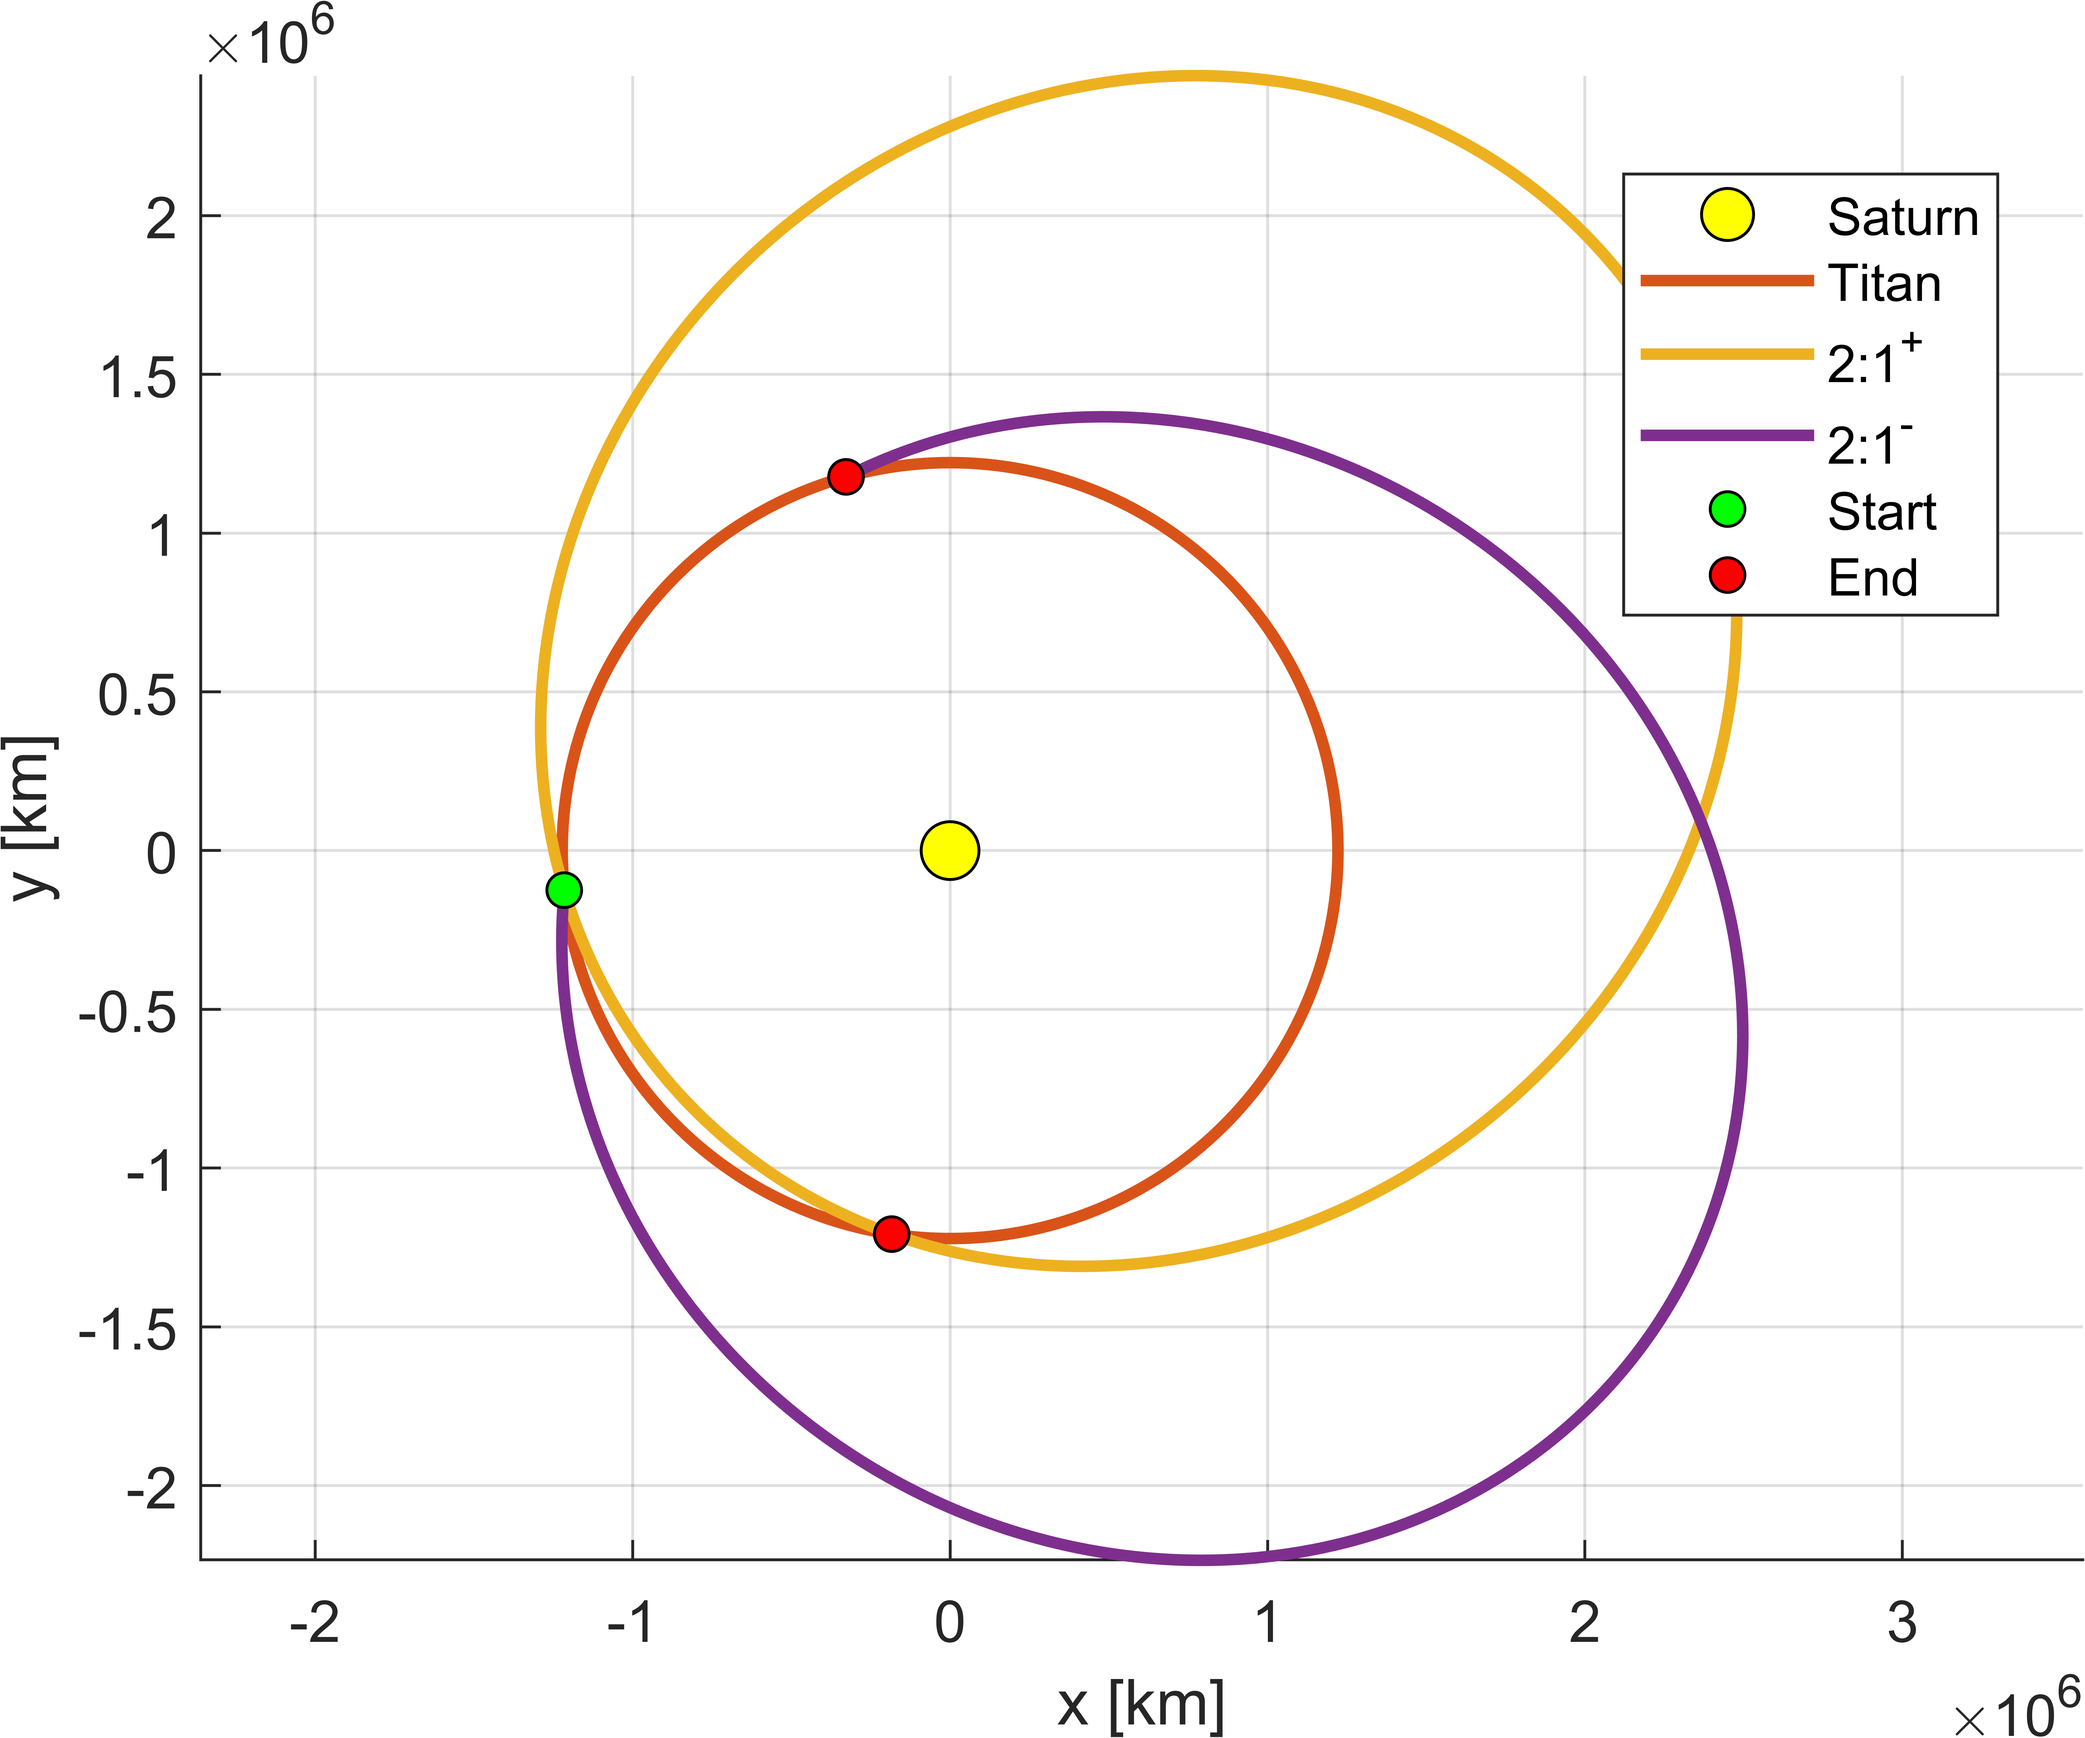
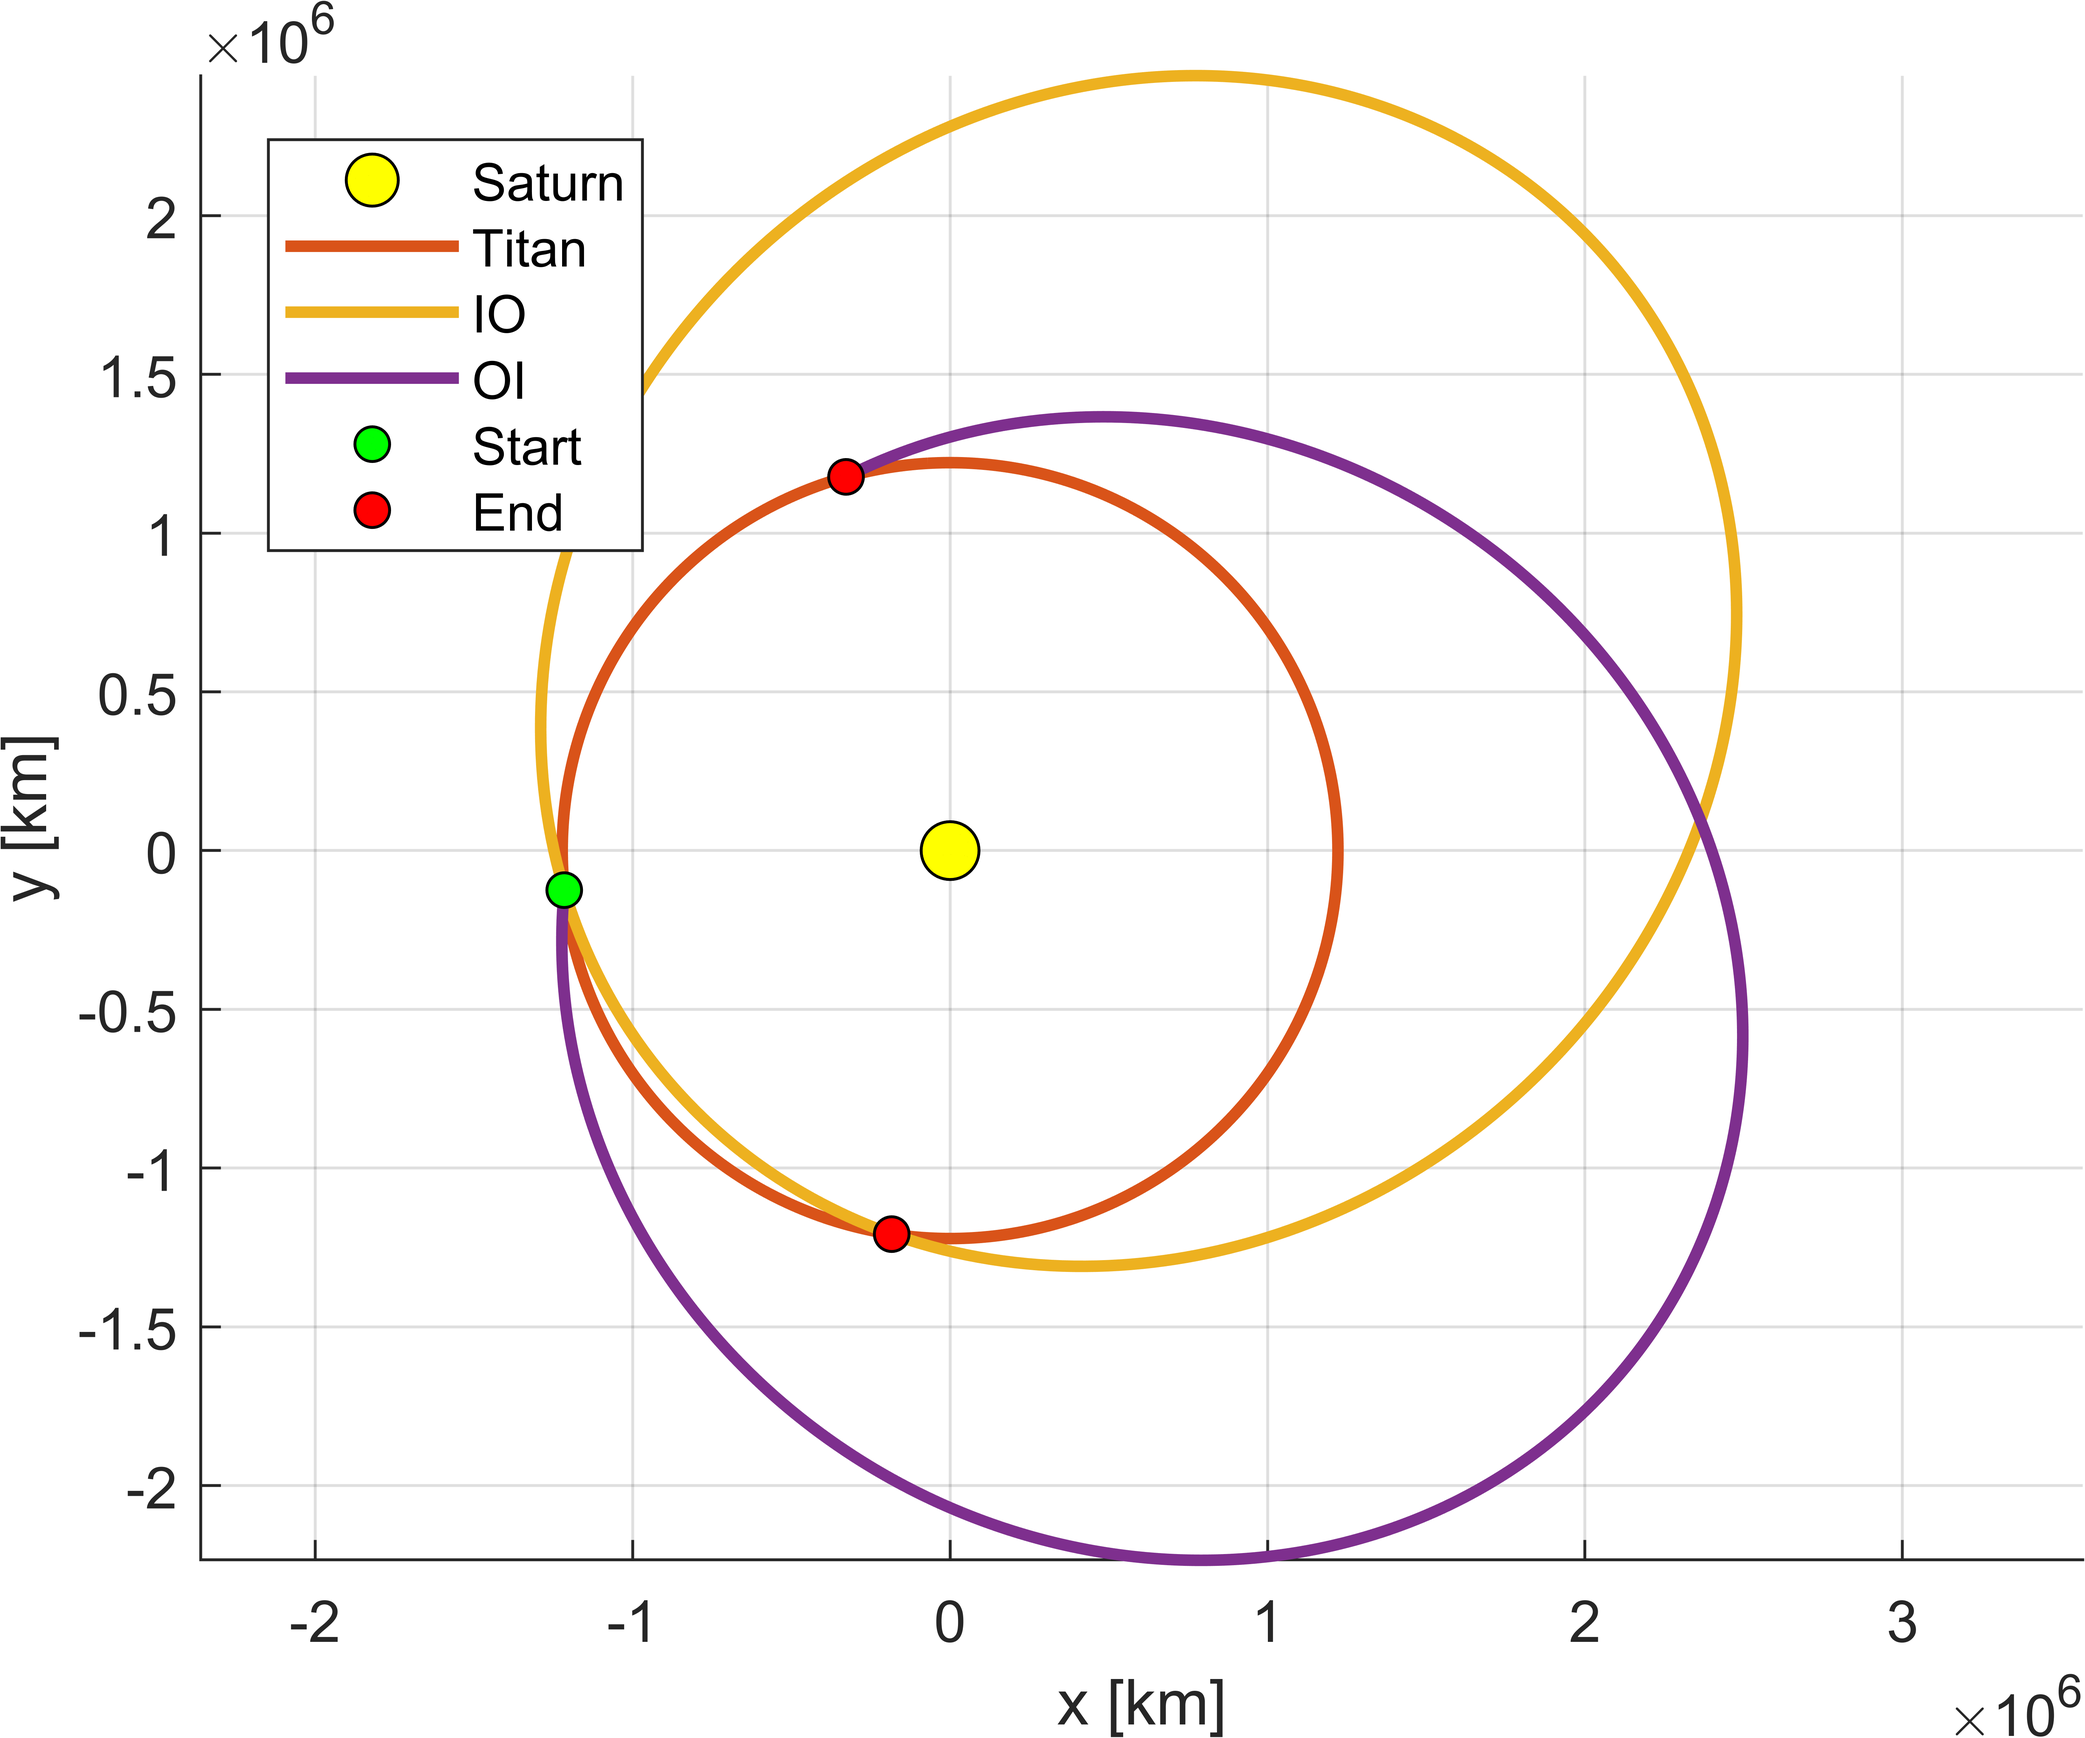
upd transfers

Changed region(s): [[0.1245, 0.0623, 0.3112, 0.3115], [0.778, 0.0935, 0.9647, 0.3738]]

diff --git a/st0_1_different_transfer.m b/st0_1_different_transfer.m
@@ -13,20 +13,27 @@ vinf_norm = 1.5;                          % --> infinity velocity [km/s]
 %% --> Test full-resonant transfer
 
 % --> resonant ratio
-N = 2; % --> moon revs.
+N = 1; % --> moon revs.
 M = 1; % --> SC revs.
 
-crank = pi; % --> crank angle
+crank1 = pi; % --> crank angle
 
 [vinf1, alpha1, crank1, vinf2, alpha2, crank2, tof] = ...   
-    wrap_fullResTransf(N, M, vinf_norm, crank, idmoon, idcentral);                           % --> find the full-resonant transfer
+    wrap_fullResTransf(N, M, vinf_norm, crank1, idmoon, idcentral);                           % --> find the full-resonant transfer
 [~, rr1, vv1] = vinfAlphaCrank_to_VinfCART(vinf1, alpha1, crank1, epoch, idmoon, idcentral); % --> find cartesian elements
 [~, yy]       = propagateKepler_tof(rr1, vv1, tof, muCentral);                               % --> propagate
+
+crank = 0; 
+[vinf1, alpha1, crank, vinf2, alpha2, crank2, tof] = ...   
+    wrap_fullResTransf(N, M, vinf_norm, crank, idmoon, idcentral);                           % --> find the full-resonant transfer
+[~, rr1, vv1] = vinfAlphaCrank_to_VinfCART(vinf1, alpha1, crank, epoch, idmoon, idcentral); % --> find cartesian elements
+[~, yy2]       = propagateKepler_tof(rr1, vv1, tof, muCentral);                               % --> propagate
 
 % --> plot moon's orbit and add the trajectory
 fig = plotMoons(idmoon, idcentral);
 
-plot3( yy(:,1), yy(:,2), yy(:,3), 'LineWidth', 2, 'DisplayName', 'Prograde' );
+plot3( yy(:,1), yy(:,2), yy(:,3), 'LineWidth', 2, 'DisplayName', 'II'  );
+plot3( yy2(:,1), yy2(:,2), yy2(:,3), 'LineWidth', 2, 'DisplayName', 'OO' );
 
 plot3( yy(1,1), yy(1,2), yy(1,3), 'o',...
     'MarkerEdgeColor', 'Black',...
@@ -60,8 +67,8 @@ type = 81; % --> Outbound-Inbound
 fig100 = plotMoons(idmoon, idcentral);
 
 nameRes = [ num2str(N) ':' num2str(M) ];
-plot3( yy(:,1), yy(:,2), yy(:,3), 'LineWidth', 2, 'DisplayName', [nameRes '^+'] );
-plot3( yy2(:,1), yy2(:,2), yy2(:,3), 'LineWidth', 2, 'DisplayName', [nameRes '^-'] );
+plot3( yy(:,1), yy(:,2), yy(:,3), 'LineWidth', 2, 'DisplayName', 'IO' );
+plot3( yy2(:,1), yy2(:,2), yy2(:,3), 'LineWidth', 2, 'DisplayName', 'OI' );
 
 plot3( yy(1,1), yy(1,2), yy(1,3), 'o',...
     'MarkerEdgeColor', 'Black',...
@@ -153,8 +160,8 @@ side                 = -1; % --> 1.ABOVE, -1.BELOW
 fig2 = plotMoons(idmoon, idcentral);
 axis normal;
 
-plot3( yy(:,1), yy(:,2), yy(:,3), 'LineWidth', 2, 'DisplayName', 'Prograde' );
-plot3( yy2(:,1), yy2(:,2), yy2(:,3), 'LineWidth', 2, 'DisplayName', 'Retrograde' );
+plot3( yy(:,1), yy(:,2), yy(:,3), 'LineWidth', 2, 'DisplayName', 'Above' );
+plot3( yy2(:,1), yy2(:,2), yy2(:,3), 'LineWidth', 2, 'DisplayName', 'Below' );
 
 plot3( yy(1,1), yy(1,2), yy(1,3), 'o',...
     'MarkerEdgeColor', 'Black',...
@@ -179,8 +186,8 @@ exportgraphics(fig2, name, 'Resolution', 1200);
 N     = 2;
 M     = 1;
 L     = 0;
-type  = 18;  % --> 1.INBOUND, 8.OUTBOUND
-kei   = -1;  % --> +1 for manoeuvre at APOAPSIS, -1 for manoeuvre at PERIAPSIS
+type  = 11;  % --> 1.INBOUND, 8.OUTBOUND
+kei   = +1;  % --> +1 for manoeuvre at APOAPSIS, -1 for manoeuvre at PERIAPSIS
 vinf1 = 1.5;
 vinf2 = 1.3;
 
